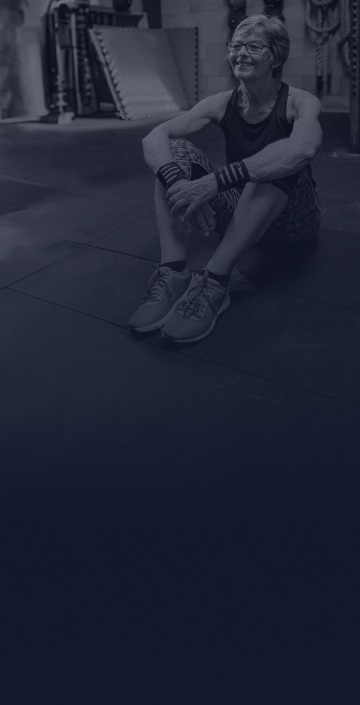
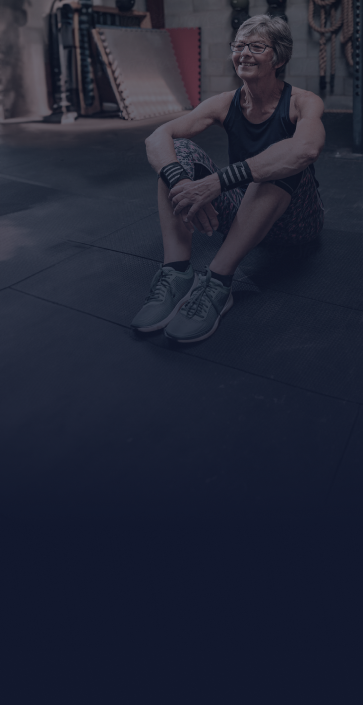
cambios de estilo e imagenes

diff --git a/app/cursos-especializados/_components/cursoEspecializacionCard.jsx b/app/cursos-especializados/_components/cursoEspecializacionCard.jsx
@@ -13,23 +13,31 @@ import Image from "next/image";
 import Link from "next/link";
 
 const CursoEspecializacionCard = ({ curso }) => {
-  console.log(curso);
   return (
-    <Card className={"text-sm min-h-[430px] mx-2 relative flex flex-col justify-end bg-black text-white rounded-3xl overflow-hidden"}>
+    <Card
+      className={
+        "text-sm min-h-[430px] mx-2 relative flex flex-col justify-end bg-black text-white rounded-3xl overflow-hidden"
+      }
+    >
       <Image
         // src={`/${curso.imagen}`}
-        src={`/cursosEspecializacion/cursos/headersWeb/${curso.nombre}.png`}
+        src={`/cursosEspecializacion/cursos/headersMobile/${curso.nombre}.png`}
         alt="curso"
         fill
+        quality={100}
+        sizes="(max-width: 768px) 100vw, (max-width: 1200px) 50vw, 33vw"
         className="object-cover object-right-top "
       />
-      <CardTitle className="text-white z-10 p-6 pb-0">{curso.nombre ? curso.nombre : "150 "}</CardTitle>
+      <CardTitle className="text-white z-10 p-6 pb-0">
+        {curso.nombre ? curso.nombre : " "}
+      </CardTitle>
       <CardHeader className="flex justify-between z-10 ">
         {/* <CardTitle className="h-12 align-text-bottom">{curso.nombre}</CardTitle> */}
-        <CardDescription className="text-white ">{curso.descripcion}</CardDescription>
+        {/* <CardDescription className="text-white ">{curso.descripcion}</CardDescription> */}
         <Separator />
         <span className="flex gap-2">
-          <GraduationCap /> <span className="font-bold">Docente:</span> {curso.profesionals?.length>0&&curso.profesionals[0].nombre}
+          <GraduationCap /> <span className="font-bold">Docente:</span>{" "}
+          {curso.profesionals?.length > 0 && curso.profesionals[0].nombre}
         </span>
         <Separator />
         <span className="flex gap-2">

diff --git a/app/cursos-formacion/[nombre]/_components/cursoFormacionHeader.jsx b/app/cursos-formacion/[nombre]/_components/cursoFormacionHeader.jsx
@@ -9,11 +9,26 @@ const CursoFormacionHeader = ({
   modalidades,
   videoid,
 }) => {
+  const splitNombreEnDosLineas = nombre => {
+    const palabras = nombre.split(" ");
+    const mitad = Math.ceil(palabras.length / 2);
+    const primeraLinea = palabras.slice(0, mitad).join(" ");
+    const segundaLinea = palabras.slice(mitad).join(" ");
+
+    return (
+      <>
+        {primeraLinea}
+        <br />
+        {segundaLinea}
+      </>
+    );
+  };
+
   return (
     <section className="relative lg:container text-white">
       <div className="px-8 max-lg:min-h-[700px] flex flex-col pb-10 lg:py-20 justify-end lg:justify-center">
-        <h1 className="text-4xl lg:text-5xl font-bold mb-8 tracking-tight max-w-[22rem]">
-          {nombre}
+        <h1 className="text-4xl lg:text-5xl font-bold mb-8 tracking-tight">
+          {splitNombreEnDosLineas(nombre)}
         </h1>
         <p className="lg:w-1/2">{descripcion}</p>
         <p className="font-semibold text-sm my-4 max-lg:text-center text-orange-500 italic">

diff --git a/app/cursos-especializados/[nombre]/_components/cursosEspecializacionHeader.jsx b/app/cursos-especializados/[nombre]/_components/cursosEspecializacionHeader.jsx
@@ -10,11 +10,26 @@ const CursosEspciealizacionHeader = ({
   videoid,
   profesional,
 }) => {
+  const splitNombreEnDosLineas = nombre => {
+    const palabras = nombre.split(" ");
+    const mitad = Math.ceil(palabras.length / 2);
+    const primeraLinea = palabras.slice(0, mitad).join(" ");
+    const segundaLinea = palabras.slice(mitad).join(" ");
+
+    return (
+      <>
+        {primeraLinea}
+        <br />
+        {segundaLinea}
+      </>
+    );
+  };
+
   return (
     <section className="relative lg:container text-white">
       <div className="px-8 max-lg:min-h-[700px] flex flex-col pb-10 lg:py-20 justify-end lg:justify-center">
-        <h1 className="text-4xl lg:text-5xl font-bold mb-8 tracking-tight max-w-32">
-          {nombre}
+        <h1 className="text-4xl lg:text-5xl font-bold mb-8 tracking-tight">
+          {splitNombreEnDosLineas(nombre)}
         </h1>
         <p className="lg:w-1/2 mb-4">{descripcion}</p>
 
